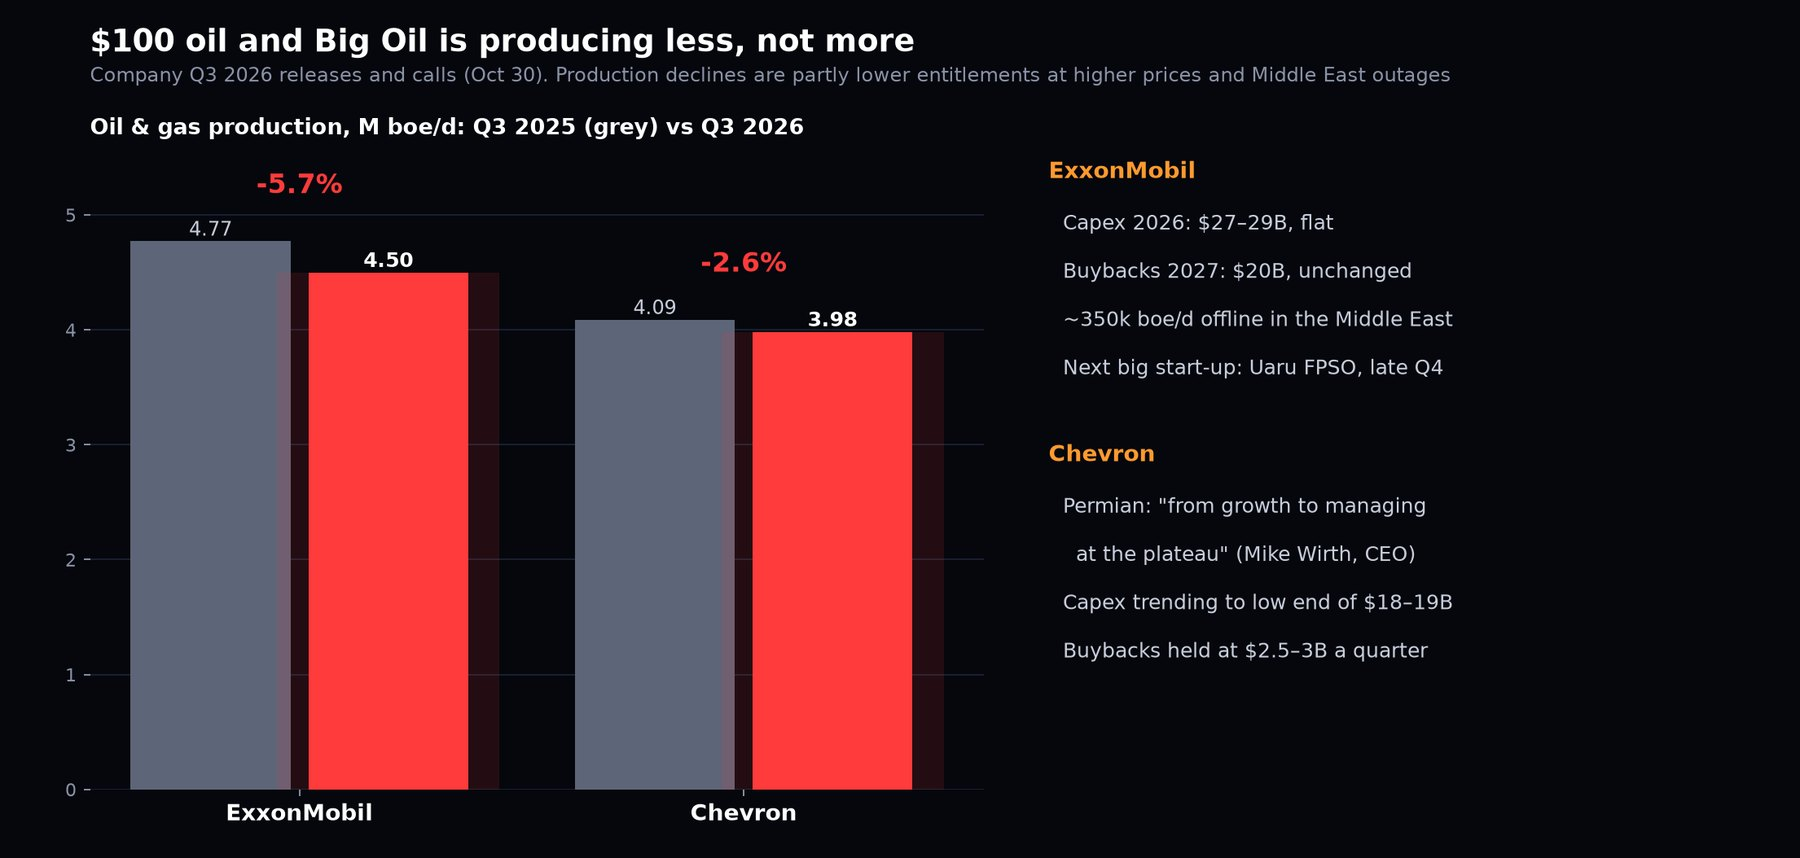
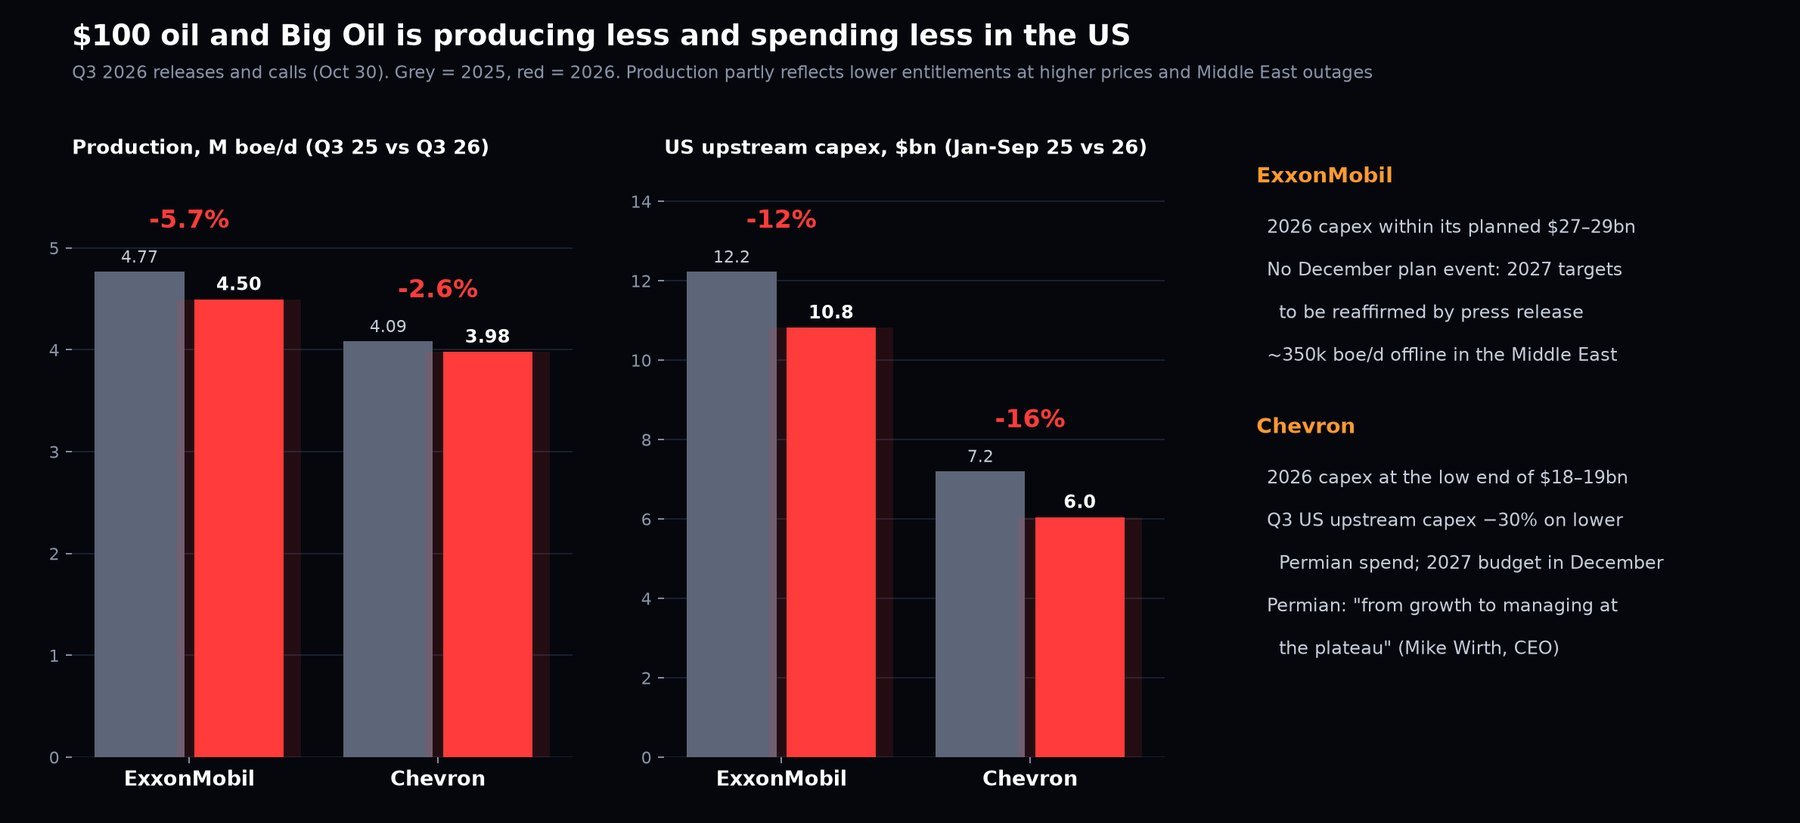
Draft commentary: founder's succinct rewrite of US Consumer section; add Exxon/Chevron capex outlooks

diff --git a/static/commentary/is-trump-going-to-re-escalate-iran/index.html b/static/commentary/is-trump-going-to-re-escalate-iran/index.html
@@ -147,41 +147,20 @@
 </ul>
 <p>Current status is unknown. Riyadh stopped confirming damage after September, and each repair has reportedly taken longer. Saudi has no uncontested export route: Gulf terminals face mines at Hormuz, Yanbu cargoes face the Houthis at Bab al-Mandeb, and the pipeline linking the two keeps getting hit.</p>
 <h2>The US Consumer is Strong</h2>
-<p>Across the board we are seeing virtually no demand destruction even at wildly higher oil prices. Gasoline at the pump is $4.15 a gallon vs $3.02 a year ago. Jet fuel has averaged 83% more than last year since the war started. Americans are buying the same amount of both.</p>
+<p>Gasoline is $4.15 a gallon vs $3.02 a year ago with jet fuel up even more, but demand remains strong. Delta, Southwest, American and United all guided Q4 with robust consumers - &ldquo;we don&#x27;t see any sign at this point that fares coming up are eroding customer demand in any way,&rdquo; Robert Jordan of Southwest said after jacking prices up 27%. Similar comments are broad based.</p>
 <figure class="exhibit"><img src="img/fuel-demand.jpg" alt="US gasoline and jet fuel prices and demand, 2026 vs 2025" loading="lazy"><figcaption><span class="label">Exhibit 9</span>Since the war began Feb 28: retail gasoline +31% and jet fuel +83% vs 2025. Gasoline demand -0.2%, jet fuel demand -0.4% (EIA weekly product supplied)</figcaption></figure>
-<p>The airlines passed it straight through. Jet fuel cost 60% more per gallon in Q3. Revenue grew 16-21% with traffic flat, and all four guide Q4 revenue up about 20%.</p>
-<ul>
-<li><strong>Delta:</strong> &ldquo;We see no cracks in that demand for the fourth quarter. The economy is really strong&rdquo; - Joe Esposito, CCO. Forward cash sales up nearly 20%, premium revenue +18%, and the week after Labor Day was its highest corporate sales week ever.</li>
-<li><strong>Southwest:</strong> &ldquo;We don&#x27;t see any sign at this point that fares coming up are eroding customer demand in any way, shape or form&rdquo; - Robert Jordan, CEO. Average fare +27%, 65% of Q4 revenue already booked.</li>
-<li><strong>American:</strong> &ldquo;The US economy remains strong. Supported by healthy employment, rising household incomes, and significant wealth accumulation&rdquo; - Robert Isom, CEO. Premium revenue +23%, managed corporate +28%.</li>
-<li><strong>United:</strong> record $17.9bn revenue, +17%. Contracted business revenue +26%.</li>
-</ul>
 <figure class="exhibit"><img src="img/airlines.jpg" alt="Airlines Q3 2026: jet fuel cost, revenue and traffic" loading="lazy"><figcaption><span class="label">Exhibit 10</span>Q3 2026 vs Q3 2025: jet fuel per gallon +60-63%, revenue +16-21%, traffic (revenue passenger miles) flat. Every carrier guides Q4 revenue up about 20%</figcaption></figure>
-<p>Hotels, Airbnb and the cruise lines say the same thing:</p>
-<ul>
-<li><strong>Airbnb:</strong> North America nights grew at their fastest pace in four years. Nights and seats booked +16%, bookings +21%, Q4 revenue guided +16-18%.</li>
-<li><strong>Marriott:</strong> &ldquo;Travel demand has been remarkably robust this year despite geopolitical uncertainty&rdquo; - Anthony Capuano, CEO. US and Canada RevPAR +7.4%. Full-year guidance raised twice, from 1.5-2.5% at the start of the year to 4.5-5%.</li>
-<li><strong>Royal Caribbean:</strong> bookings since the July call up mid-teens year over year, 2027 sailings up high teens. Onboard spending +13.6%.</li>
-<li><strong>Carnival:</strong> &ldquo;We are an amazing value for people if the consumer confidence isn&#x27;t great, if there is pressure from things like price of gasoline&rdquo; - Josh Weinstein, CEO. Record $7.6bn of customer deposits, +7% on flat capacity. Guidance raised despite a $150m fuel hit.</li>
-<li><strong>Norwegian</strong> is the outlier: net yield -6.7%. Management blames its own execution and the Middle East, not fuel. Even there, onboard spending was +12.7%.</li>
-</ul>
-<figure class="exhibit"><img src="img/travel-cruise.jpg" alt="Travel and cruise Q3 2026 demand metrics" loading="lazy"><figcaption><span class="label">Exhibit 11</span>Q3 2026 demand, year over year, from the earnings releases and calls</figcaption></figure>
-<figure class="exhibit"><img src="img/abnb-growth.jpg" alt="Airbnb gross booking value, nights and revenue growth by quarter" loading="lazy"><figcaption><span class="label">Exhibit 12</span>Airbnb Q3 shareholder letter: growth in bookings, nights and revenue accelerated through the war. Nights and seats +16% in Q3 vs +10% in Q2</figcaption></figure>
-<p>Where higher fuel shows up is margins and long-haul trips. Delta, American and Southwest cut full-year EPS guidance and United guided Q4 earnings below expectations - Delta&#x27;s CFO on the cut: &ldquo;All of it is fuel.&rdquo; United said its leisure load factor fell 1.3 points, a small amount of elasticity. Southwest flew 3.2% fewer passengers. Booking says elevated airfares are weighing on long-haul travel, while &ldquo;domestic travel continues to hold up as we are seeing travelers take shorter trips and choose destinations closer to home.&rdquo;</p>
-<figure class="exhibit"><img src="img/bkng-room-nights.jpg" alt="Booking Holdings Q3 2026 room nights" loading="lazy"><figcaption><span class="label">Exhibit 13</span>Booking Holdings Q3 deck: room nights +7%, up from 5% in Q2. Booking guides Q4 to +1-3% on higher airfares and Middle East disruption to long-haul travel</figcaption></figure>
-<p>Next quarter&#x27;s revenue estimates already include the fuel prices. Since the war started, Q4 revenue consensus is up 11% for the airlines, flat for hotels and travel, and down 2% for cruise - all of it Norwegian. Airlines are now expected to grow Q4 revenue 13-26% vs last year, up from 7-11% before the war.</p>
-<figure class="exhibit"><img src="img/q4-revisions.jpg" alt="Q4 2026 revenue consensus revisions since the war" loading="lazy"><figcaption><span class="label">Exhibit 14</span>Bloomberg consensus revenue for Q4 2026 vs reported Q4 2025, today vs Feb 27. Brent is up 36% over the same period</figcaption></figure>
 <p>Jobs and growth are holding up. October payrolls +165k, unemployment 4.1% (down from 4.5% last November), Q3 GDP +3.4% annualized and September retail sales +0.8%.</p>
-<figure class="exhibit"><img src="img/macro.jpg" alt="US payrolls, unemployment, GDP and retail sales" loading="lazy"><figcaption><span class="label">Exhibit 15</span>US payrolls, unemployment, real GDP and retail sales since January 2025</figcaption></figure>
-<p>Supply is not coming to the rescue either. Exxon and Chevron are producing less oil and gas than a year ago with Brent near $100, holding capex flat and keeping buybacks unchanged.</p>
-<ul>
-<li><strong>Exxon:</strong> Q3 production 4.50m boe/d, -5.7% vs last year, with about 350k boe/d offline in the Middle East. &ldquo;We&#x27;re not real focused, as you know, on necessarily the volume target&rdquo; - Darren Woods, CEO. Woods says about a third of the shortage is &ldquo;just the inability to get clean products out of the Middle East and onto the world markets.&rdquo;</li>
-<li><strong>Chevron:</strong> production -2.6%. The Permian has turned &ldquo;from growth to managing at the plateau&rdquo;. &ldquo;The history books aren&#x27;t full of great deals that were done at $100 oil or $10 gas&rdquo; - Mike Wirth, CEO.</li>
-<li>The extra supply is coming from refineries, not wells. Exxon ran its US Gulf Coast crude units at 100% and refining earnings jumped on higher margins. Chevron ran record US crude volumes.</li>
-<li>US crude production is 13.7m barrels a day (4-week average), about where it was before the war.</li>
-</ul>
-<figure class="exhibit"><img src="img/majors.jpg" alt="ExxonMobil and Chevron production Q3 2025 vs Q3 2026" loading="lazy"><figcaption><span class="label">Exhibit 16</span>Exxon and Chevron production fell year over year in Q3. Part of the drop is lower contract entitlements at higher prices and Middle East outages</figcaption></figure>
-
+<figure class="exhibit"><img src="img/macro.jpg" alt="US payrolls, unemployment, GDP and retail sales" loading="lazy"><figcaption><span class="label">Exhibit 11</span>US payrolls, unemployment, real GDP and retail sales since January 2025</figcaption></figure>
+<p>Since the war started, Q4 revenue consensus is up 11% for the airlines, flat for hotels and travel, and down 2% for cruise. Airlines are now expected to grow Q4 revenue 13-26% vs last year, up from 7-11% before the war.</p>
+<figure class="exhibit"><img src="img/q4-revisions.jpg" alt="Q4 2026 revenue consensus revisions since the war" loading="lazy"><figcaption><span class="label">Exhibit 12</span>Bloomberg consensus revenue for Q4 2026 vs reported Q4 2025, today vs Feb 27. Brent is up 36% over the same period</figcaption></figure>
+<p>Airbnb is growing bookings 21% - a huge acceleration vs before the war. Marriott has raised full year guidance twice, and is seeing revenue per room +7.4% higher vs a year ago in the US and Canada. Royal Caribbean is signaling that bookings are up 15% or so with 2027 at similar rates. Carnival (the lowest end) isn&#x27;t growing as fast but still saw customer deposits +7% and raised guidance.</p>
+<figure class="exhibit"><img src="img/travel-cruise.jpg" alt="Travel and cruise Q3 2026 demand metrics" loading="lazy"><figcaption><span class="label">Exhibit 13</span>Q3 2026 demand, year over year, from the earnings releases and calls</figcaption></figure>
+<figure class="exhibit"><img src="img/abnb-growth.jpg" alt="Airbnb gross booking value, nights and revenue growth by quarter" loading="lazy"><figcaption><span class="label">Exhibit 14</span>Airbnb Q3 shareholder letter: growth in bookings, nights and revenue accelerated through the war. Nights and seats +16% in Q3 vs +10% in Q2</figcaption></figure>
+<p>Where higher fuel shows up is margins and long-haul trips. Delta, American and Southwest cut full-year EPS guidance and United guided Q4 earnings below expectations - Delta&#x27;s CFO on the cut: &ldquo;All of it is fuel.&rdquo; United said its leisure load factor fell 1.3 points, a small amount of elasticity. Southwest flew 3.2% fewer passengers. Booking says elevated airfares are weighing on long-haul travel, while &ldquo;domestic travel continues to hold up as we are seeing travelers take shorter trips and choose destinations closer to home.&rdquo;</p>
+<figure class="exhibit"><img src="img/bkng-room-nights.jpg" alt="Booking Holdings Q3 2026 room nights" loading="lazy"><figcaption><span class="label">Exhibit 15</span>Booking Holdings Q3 deck: room nights +7%, up from 5% in Q2. Booking guides Q4 to +1-3% on higher airfares and Middle East disruption to long-haul travel</figcaption></figure>
+<p>Supply isn&#x27;t coming either. Exxon and Chevron are producing less than a year ago (-5.7% and -2.6%) and spending less to drill in the US. Exxon&#x27;s US upstream capex is down 12% this year and full-year spend is tracking its plan; it isn&#x27;t holding a December plan event and will just reaffirm 2027 targets by press release. Chevron cut US upstream capex 30% in Q3 on lower Permian spend, will finish 2026 at the low end of its capex guidance and sets the 2027 budget in December. The Permian has gone &ldquo;from growth to managing at the plateau&rdquo; - Mike Wirth, Chevron CEO.</p>
+<figure class="exhibit"><img src="img/majors.jpg" alt="ExxonMobil and Chevron production and US upstream capex" loading="lazy"><figcaption><span class="label">Exhibit 16</span>Exxon and Chevron Q3 production fell year over year and US upstream capex is down 12% and 16% so far this year. Part of the production drop is lower contract entitlements at higher prices and Middle East outages</figcaption></figure>
 <p>It genuinely doesn&#x27;t seem like there is something that is going to cause fuel price sensitivity to send oil lower.</p>
 <h2>With regards to war escalation, what is the implication of Eisenkot gaining over Netanyahu?</h2>
 <p>Short answer: very little for the next few weeks, and less than people think after that.</p>
